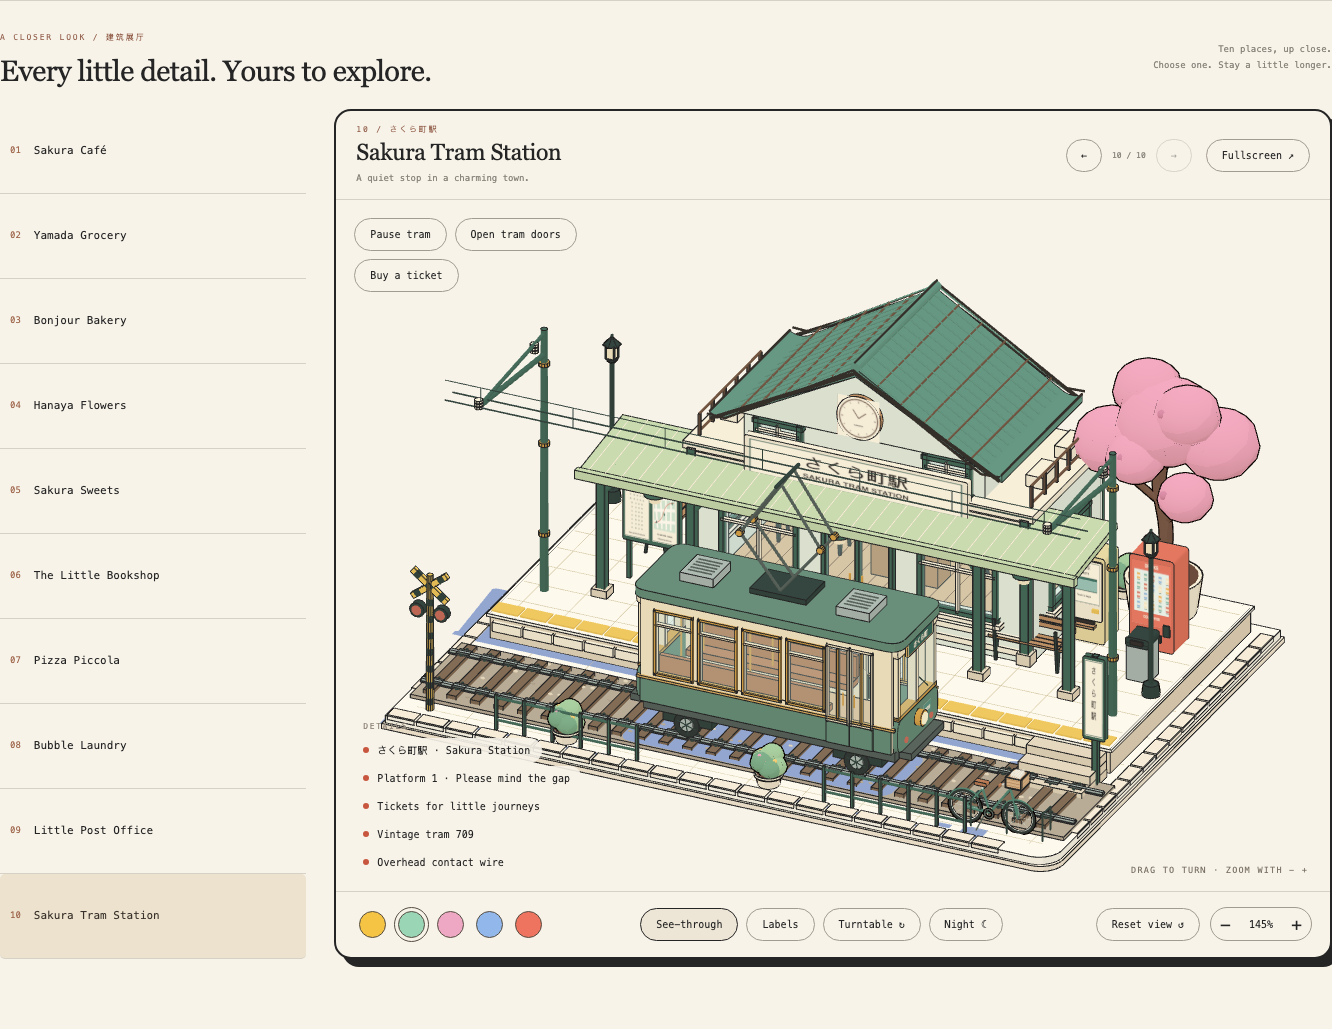
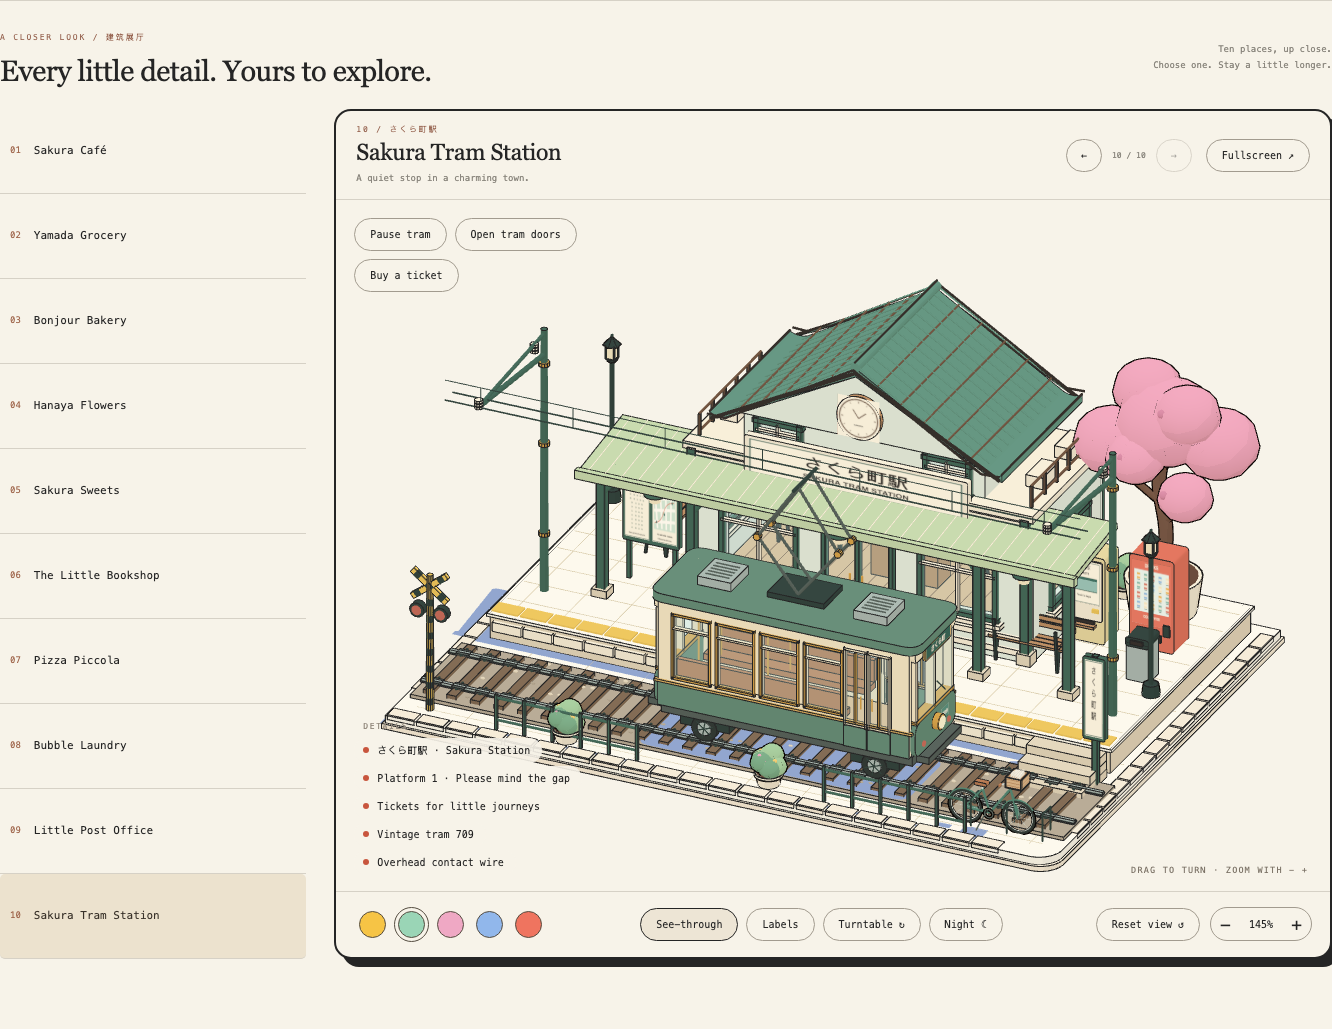
README in English and Chinese; the explorer retries a place that fails to load
- README: drop the logo image, add screenshots of the closer-look display and the
  Get the skill page, link to a new Chinese version (README.zh-CN.md)
- Explorer: a failed load (a lost WebGL context, a reload mid-way) now shows
  "This place didn't set out. Click to try again" and retries when shown or clicked,
  instead of staying on "Choose a place to look closer." for good

Changed region(s): [[0.4617, 0.4354, 0.7387, 0.7775]]

diff --git a/web/src/explorer.js b/web/src/explorer.js
@@ -51,7 +51,9 @@ export function createExplorer({ collectionItems, reducedMotion }) {
  function focusDetail(i){if(!item)return;if(state.focus===i){reset();return;}const [,point]=item.labels[i];scene.updateMatrixWorld(true);const to=item.model.group.localToWorld(typeof point==='function'?point():new THREE.Vector3(...point));state.focus=i;state.turntable=false;controls.autoRotate=false;zoomGoal=Math.max(zoomGoal,2.4);focusAnim={from:controls.target.clone(),to,t:0};if(reducedMotion.matches)stepFocus(1);syncDetails();syncCommon();invalidate();}
  function stepFocus(dt){if(!focusAnim)return false;focusAnim.t=Math.min(1,focusAnim.t+dt/.65);const t=focusAnim.t,k=t*t*(3-2*t),offset=camera.position.clone().sub(controls.target);controls.target.lerpVectors(focusAnim.from,focusAnim.to,k);camera.position.copy(controls.target).add(offset);if(t>=1)focusAnim=null;return true;}
  function syncDetails(){for(const b of section.querySelectorAll('[data-explorer-detail]'))b.setAttribute('aria-pressed',String(Number(b.dataset.explorerDetail)===state.focus));}
- function load(){
+ // A place that fails to set out (a lost WebGL context, a reload mid-way) says so, and tries again when it is shown or clicked.
+ function load(){const note=$('.explorer-loading');try{loadPlace();note.classList.remove('is-error');}catch(error){console.error('Explorer: could not load',state.selected,error);item=null;adapter=null;note.hidden=false;note.classList.add('is-error');note.textContent='This place didn’t set out. Click to try again ↻';}}
+ function loadPlace(){
   init();release();item=createCollection({only:state.selected})[state.selected];const m=item.model;
   scene.add(item.wrapper);scene.updateMatrixWorld(true);
   let box=m.footprint?new THREE.Box3(new THREE.Vector3(...m.footprint.min),new THREE.Vector3(...m.footprint.max)):new THREE.Box3().setFromObject(item.wrapper);
@@ -98,13 +100,14 @@ export function createExplorer({ collectionItems, reducedMotion }) {
  for(const b of section.querySelectorAll('[data-explore]')){b.addEventListener('pointerenter',()=>showPreview(b));b.addEventListener('pointerleave',hidePreview);b.addEventListener('focus',()=>showPreview(b));b.addEventListener('blur',hidePreview);}
  window.addEventListener('scroll',hidePreview,{passive:true});window.addEventListener('resize',hidePreview);
  new ResizeObserver(resize).observe(host);
- new IntersectionObserver(entries=>{state.visible=entries[0].isIntersecting;if(state.visible&&!renderer)load();invalidate();},{rootMargin:'0px'}).observe(display);
+ new IntersectionObserver(entries=>{state.visible=entries[0].isIntersecting;if(state.visible&&!item)load();invalidate();},{rootMargin:'0px'}).observe(display);
+ $('.explorer-loading').addEventListener('click',()=>{if(!item)load();});
  function route(){const id=location.hash.match(/^#explore\/([a-z]+)$/)?.[1];if(buildingCatalog.some(b=>b.id===id))select(id,{scroll:true,writeHash:false});}
  window.addEventListener('hashchange',route);
  select('cafe',{writeHash:false});if(location.hash.startsWith('#explore/'))requestAnimationFrame(route);
  reducedMotion.addEventListener('change',()=>{if(controls)controls.autoRotate=state.turntable&&!reducedMotion.matches;if(reducedMotion.matches&&item?.id==='tram')item.model.settle();invalidate();});
  function frame(dt){
-  if(!state.visible||document.hidden||!renderer||!item)return;elapsed+=dt;
+  if(!state.visible||document.hidden||!renderer||!item||!adapter)return;elapsed+=dt;
   const focusing=stepFocus(dt),changed=controls.update(dt),moving=adapter.step(dt,elapsed),z=Math.abs(camera.zoom-zoomGoal)>.001,n=Math.abs(nightAmount-Number(state.night))>.001;
   syncActions();if(!dirty&&!focusing&&!changed&&!moving&&!z&&!n&&!(state.turntable&&!reducedMotion.matches))return;
   dirty=false;

diff --git a/web/src/explorer.css b/web/src/explorer.css
@@ -69,3 +69,5 @@
  .explorer-detail{flex-shrink:0;font-size:9px}
 }
 @media(prefers-reduced-motion:reduce){.explorer-detail{transition:none}}
+
+.explorer-loading.is-error{pointer-events:auto;cursor:pointer;color:#A8533B;text-decoration:underline;text-underline-offset:3px}

diff --git a/README.zh-CN.md b/README.zh-CN.md
@@ -1,0 +1,96 @@
+# Little Places · 建筑小集
+
+[English](README.md) · 中文
+
+**Small places. Everyday stories.** —— zili design 的一组小建筑。
+
+十个小店和车站，每一个都是真正的 Three.js 模型：可以转一整圈、看进屋里，还能动手玩——开门、投信、洗衣服、点燃披萨炉、等电车进站。它们像出自同一位插画师之手：平涂的卡通色、深色墨线、温暖克制的配色、白色铺地和一片柔和的蓝色午后投影，全部放在同一个网页上展示。
+
+![建筑合集](web/screenshots/collection-desktop.png)
+
+## 十个地方
+
+| | 地方 | | 可以玩什么 | 链接 |
+| --- | --- | --- | --- | --- |
+| 01 | Sakura Café | 桜カフェ | 开门、看咖啡菜单 | `/#cafe` |
+| 02 | Yamada Grocery | 山田雑貨店 | 拉起卷帘门、四台扭蛋机 | `/#grocery` |
+| 03 | Bonjour Bakery | 焼きたてパン | 开门、收起面包、带走你的面包、透视 | `/#bakery` |
+| 04 | Hanaya Flowers | 花屋 | 开门、打开温室天窗、挑一束花、透视 | `/#flowers` |
+| 05 | Sakura Sweets | 桜スイーツ | 开门、看甜品菜单 | `/#sweets` |
+| 06 | The Little Bookshop | 本屋 | 打开双开门、开关灯、翻开屋顶阅读台上的书、透视 | `/#books` |
+| 07 | Pizza Piccola | ピッツェリア | 开门、点燃或熄灭烤炉（烟囱冒烟）、打开披萨盒、透视 | `/#pizza` |
+| 08 | Bubble Laundry | コインランドリー | 开门、开始洗衣、打开机门、买洗衣液 | `/#laundry` |
+| 09 | Little Post Office | 郵便局 | 打开双开门、投一封信、寄一个包裹、夜里玻璃大厅亮起来 | `/#post` |
+| 10 | Sakura Tram Station | さくら町駅 | 暂停电车、打开车门（电车会在站台停稳）、买一张车票 | `/#tram` |
+
+每个地方都有五套配色、夜间模式、标签和自动旋转。
+
+## 网页上有什么
+
+- **建筑合集** —— 十个地方慢慢巡游。拖动其中任意一栋，所有建筑一起转；鼠标停在某一栋上，巡游暂停，这一栋稍微放大；点击它可以看近景。滚轮永远只滚动页面，缩放用 − / + 按钮。配色、夜间、标签、自动旋转和默认 / 正面 / 侧面视角，既可以作用于整个合集，也可以只看一栋（`/#cafe` … `/#tram`）。
+- **近看展厅**（合集下方，`/#explore/<id>`）—— 一次只看一栋，放在一个大展示框里：它自己的互动、一个会把镜头转到各处细节的 Details 列表、透视、夜间、自动旋转、全屏和翻页。说明见 [web/EXPLORER.md](web/EXPLORER.md)。
+- **Get the skill**（`/skill.html`）—— 介绍这套建筑背后的 Claude skill 如何安装，右侧四栋建筑一组自己转动展示。
+
+![近看展厅：Little Post Office](web/screenshots/explorer-post.png)
+
+![Get the skill 页面](web/screenshots/skill-page.png)
+
+## Skill
+
+`little-places-building` 是一个 Claude skill，里面写着这套建筑的规矩：人体尺度的比例、配色和屋顶冷暖对比、硬边和圆形物体上的墨线、白色铺地和三种街边收边、投影、条纹遮阳篷、A 字黑板、可动部件、互动、性能预算，以及前面几栋建筑踩过的坑。
+
+它可以独立使用。skill 里附带一个小工具包——共用零件和渲染管线、一个单建筑查看器、一个通用的 Playwright 检查脚本，以及作为参考的 Little Post Office——所以在一个空文件夹里也能让 Claude 新做一栋：
+
+```sh
+mkdir -p ~/.claude/skills && curl -fsSL https://raw.githubusercontent.com/StarSharkk/little-places/main/skill/little-places-building.skill -o /tmp/little-places.skill && unzip -oq /tmp/little-places.skill -d ~/.claude/skills
+```
+
+然后在 Claude Code 里说类似"做一个 Little Places 风格的小拉面摊"就可以了。在 Claude.ai 上，把 [`skill/little-places-building.skill`](skill/little-places-building.skill) 上传到设置里的 Skills。
+
+在这个仓库里使用时，Claude 会直接用仓库里的文件，并把新建筑加进合集页面。skill 源文件在 [`.claude/skills/little-places-building/`](.claude/skills/little-places-building/)；运行 `sh skill/build.sh` 会从仓库更新工具包并重新打包（网站上提供下载的那份也会一起更新）。
+
+## 本地运行
+
+需要 Node.js 20.19+ 或 22.12+。
+
+```sh
+cd web
+npm ci
+npm run dev        # http://127.0.0.1:5176/
+```
+
+```sh
+npm run build      # 静态网站输出到 web/dist（index.html 和 skill.html）
+npm run preview    # http://127.0.0.1:4176/
+```
+
+`web/` 和 `buildings/` 要放在一起：网页通过 Vite 别名引用各个建筑模块。
+
+### 检查
+
+浏览器检查使用 Playwright 和 Chrome。先启动开发服务器，然后在 `web/` 里运行：
+
+| 命令 | 检查内容 |
+| --- | --- |
+| `npm run check` | 合集页面：视角、配色、标签、夜间、手机版 |
+| `npm run check:<地方>` | 单个地方：`bakery`、`flowers`、`sweets`、`books`、`pizza`、`laundry`、`post`、`tram` |
+| `npm run check:navigation` | 标签页、合集翻页、直达链接 |
+| `npm run check:rotation` | 任何视角下建筑都不会互相重叠 |
+| `npm run check:explorer`、`check:explorer-layout` | 近看展厅、它的互动以及在屏幕上的排版 |
+
+截图和 JSON 报告保存在 `web/screenshots/`。
+
+## 仓库结构
+
+| 路径 | 内容 |
+| --- | --- |
+| `web/` | 网页：合集、近看展厅、Get the skill、样式和 Playwright 检查 |
+| `buildings/01-sakura-cafe/` … `buildings/10-sakura-tram-station/` | 每个地方一个文件夹；模型只搭建自己的场景，渲染器、相机和灯光交给网页 |
+| `buildings/02-yamada-grocery/src/optimize.js` | 共用渲染管线：合批、墨线和插画式投影 |
+| `buildings/shared/` | 较新的几栋共用的基础几何、墨线外壳、街边收边、街道小物、动画和蒸汽 |
+| `.claude/skills/little-places-building/` | skill 源文件，包括独立使用的工具包 |
+| `skill/` | 打包好的 skill 和打包脚本 |
+
+## 致谢
+
+由 zili design 设计。页面排版参考了 April Zhu 的 [Colorfigures](https://april-zhu.com/colorfigures-demo)，并使用了 Little Places 自己的视觉风格。使用 [Three.js](https://threejs.org)、[Vite](https://vite.dev) 和 [Playwright](https://playwright.dev) 制作。

diff --git a/README.md b/README.md
@@ -1,6 +1,6 @@
-<p align="center"><img src="web/public/logo.svg" alt="Little Places — a building collection" width="320"></p>
-
 # Little Places · 建筑小集
+
+English · [中文](README.zh-CN.md)
 
 **Small places. Everyday stories.** — a building collection by zili design.
 
@@ -30,6 +30,10 @@ Every place also has five colour schemes, Night mode, labels and a turntable.
 - **The collection** — the ten places on a slow tour. Drag any one to turn them all together; rest the pointer on a place to pause the tour and bring it a little closer; click it to look closer. The wheel always scrolls the page — zoom with the − / + buttons. Colours, Night, Labels, Turntable and the Default / Front / Side views work across the whole collection or on one place (`/#cafe` … `/#tram`).
 - **A closer look** (below the collection, `/#explore/<id>`) — one place at a time in a large display case: its own interactions, a Details list that turns the camera to each detail, See-through, Night, Turntable, Fullscreen and paging. Notes in [web/EXPLORER.md](web/EXPLORER.md).
 - **Get the skill** (`/skill.html`) — how to install the Claude skill behind the series, with four places turning by themselves.
+
+![A closer look: the Little Post Office in the display case](web/screenshots/explorer-post.png)
+
+![Get the skill](web/screenshots/skill-page.png)
 
 ## The skill
 
